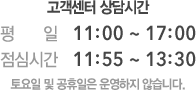
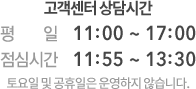
고객센터 수정

diff --git a/src/css/krisha.css b/src/css/krisha.css
@@ -330,7 +330,7 @@ body, table, input, textarea, button, select {
   vertical-align: top; }
 
 .search_box .search_cover .btn_search .icon, .cs_center .search_cover .btn_search .icon, .cs_center .tit_faq_search, .cs_center .faq_board .icon_stat, .cs_center .faq_board .open .icon_stat, .cs_center .cs_center_info .tit_cs_center, .cs_center .cs_center_info .tel_number .img, .cs_center .cs_center_info .cs_period .img, .cs_center .cs_center_info .cs_menu .menu1 a, .cs_center .cs_center_info .cs_menu .menu2 a, .cs_center .cs_center_info .cs_menu .menu3 a, .cs_center .cs_center_info .cs_menu .menu4 a, .cs_center .cs_center_info .cs_menu .menu5 a, .cs_center .cs_center_info .cs_menu .menu6 a, .cs_center .cs_center_info .consult_katalk .img, .cs_center .tit_faq_top10, .board_view_all .tit_review, .board_view_all .tit_qna {
-  background-image: url('img/sp/cs-center-s512a4c5388.png');
+  background-image: url('img/sp/cs-center-s8013c09c13.png');
   background-repeat: no-repeat;
   overflow: hidden;
   display: inline-block;
@@ -820,7 +820,8 @@ body {
     font-weight: bold;
     color: #454545; }
   .prod_list .price em {
-    font-size: 18px; }
+    font-size: 18px;
+    vertical-align: -2px; }
   .prod_list .price .before {
     color: #afafaf;
     text-decoration: line-through;
@@ -3447,15 +3448,17 @@ body {
       padding: 0;
       margin: 0 0 20px -5px; }
     .cs_center .cs_center_info .tel_number .img {
-      background-position: 0 -182px;
+      background-position: 0 -224px;
       width: 204px;
       height: 43px; }
     .cs_center .cs_center_info .cs_period .img {
-      background-position: 0 -433px;
+      background-position: 0 -391px;
       width: 196px;
-      height: 90px; }
+      height: 89px; }
     .cs_center .cs_center_info .cs_menu {
       padding: 8px 0 0; }
+      .cs_center .cs_center_info .cs_menu ul {
+        overflow: hidden; }
       .cs_center .cs_center_info .cs_menu li {
         float: left;
         width: 110px;
@@ -3469,33 +3472,37 @@ body {
         .cs_center .cs_center_info .cs_menu li a {
           vertical-align: middle !important; }
       .cs_center .cs_center_info .cs_menu .menu1 a {
-        background-position: -114px -255px;
-        width: 73px;
-        height: 63px; }
+        background-position: 0 -297px;
+        width: 78px;
+        height: 64px; }
       .cs_center .cs_center_info .cs_menu .menu2 a {
-        background-position: 0 -255px;
-        width: 84px;
-        height: 63px; }
+        background-position: -205px -297px;
+        width: 67px;
+        height: 64px; }
       .cs_center .cs_center_info .cs_menu .menu3 a {
-        background-position: 0 -348px;
-        width: 64px;
-        height: 55px; }
+        background-position: -186px -130px;
+        width: 67px;
+        height: 64px; }
       .cs_center .cs_center_info .cs_menu .menu4 a {
-        background-position: -217px -255px;
-        width: 63px;
-        height: 63px; }
+        background-position: -108px -297px;
+        width: 67px;
+        height: 64px; }
       .cs_center .cs_center_info .cs_menu .menu5 a {
-        background-position: -198px -98px;
+        background-position: -98px -138px;
         width: 58px;
         height: 54px; }
       .cs_center .cs_center_info .cs_menu .menu6 a {
-        background-position: -98px -98px;
-        width: 70px;
+        background-position: -293px -54px;
+        width: 53px;
         height: 54px; }
+    .cs_center .cs_center_info .consult_katalk a {
+      display: inline-block; }
     .cs_center .cs_center_info .consult_katalk .img {
-      background-position: 0 -553px;
+      margin-left: -5px;
+      background-position: 0 -510px;
       width: 230px;
-      height: 177px; }
+      height: 177px;
+      vertical-align: top; }
   .cs_center .tit_faq_top10 {
     background-position: -54px 0;
     width: 97px;
@@ -3507,7 +3514,7 @@ body {
 .board_view_all {
   padding-top: 80px; }
   .board_view_all .tit_review {
-    background-position: 0 -98px;
+    background-position: 0 -138px;
     width: 68px;
     height: 13px;
     border: 0;

diff --git a/src/scss/page/_cs_center.scss b/src/scss/page/_cs_center.scss
@@ -158,6 +158,9 @@
 		
 		.cs_menu{
 			padding:8px 0 0;
+			ul{
+				overflow:hidden;
+			}
 			li{
 				float:left;
 				width:110px;
@@ -186,7 +189,7 @@
 			}
 			.menu3{
 				a{
-					@include use-sprite(menu_03,$icons-cs);
+					@include use-sprite(menu_03,$icons-cs,false,0,8px);
 				}
 			}
 			.menu4{
@@ -207,8 +210,11 @@
 		}
 		
 		.consult_katalk{
+			a{display:inline-block;}
 			.img{
+				margin-left:-5px;
 				@include use-sprite(info_katalk,$icons-cs);
+				vertical-align:top;
 			}
 		}
 	}

diff --git a/src/scss/page/_main.scss b/src/scss/page/_main.scss
@@ -95,7 +95,7 @@ $slider-height:430px;
 	.prod_name img{vertical-align:-2px}
 	.prod_desc{color:#999;display:block;margin-bottom:13px}
 	.price{font-weight:bold;color:#454545}
-	.price em{font-size:18px}
+	.price em{font-size:18px;vertical-align:-2px}
 	.price .before{color:#afafaf;text-decoration:line-through;margin-right:4px}
 	.price .before em{font-size:14px;vertical-align:-1px}
 	.price .after{
